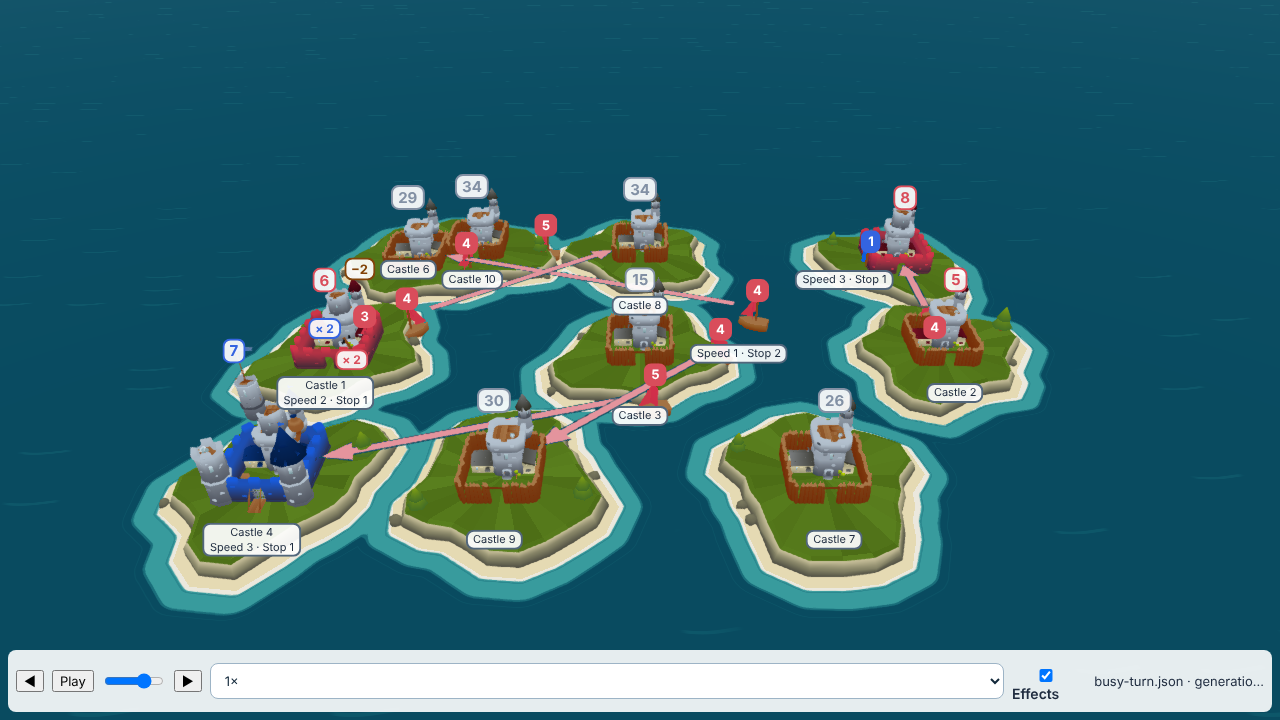
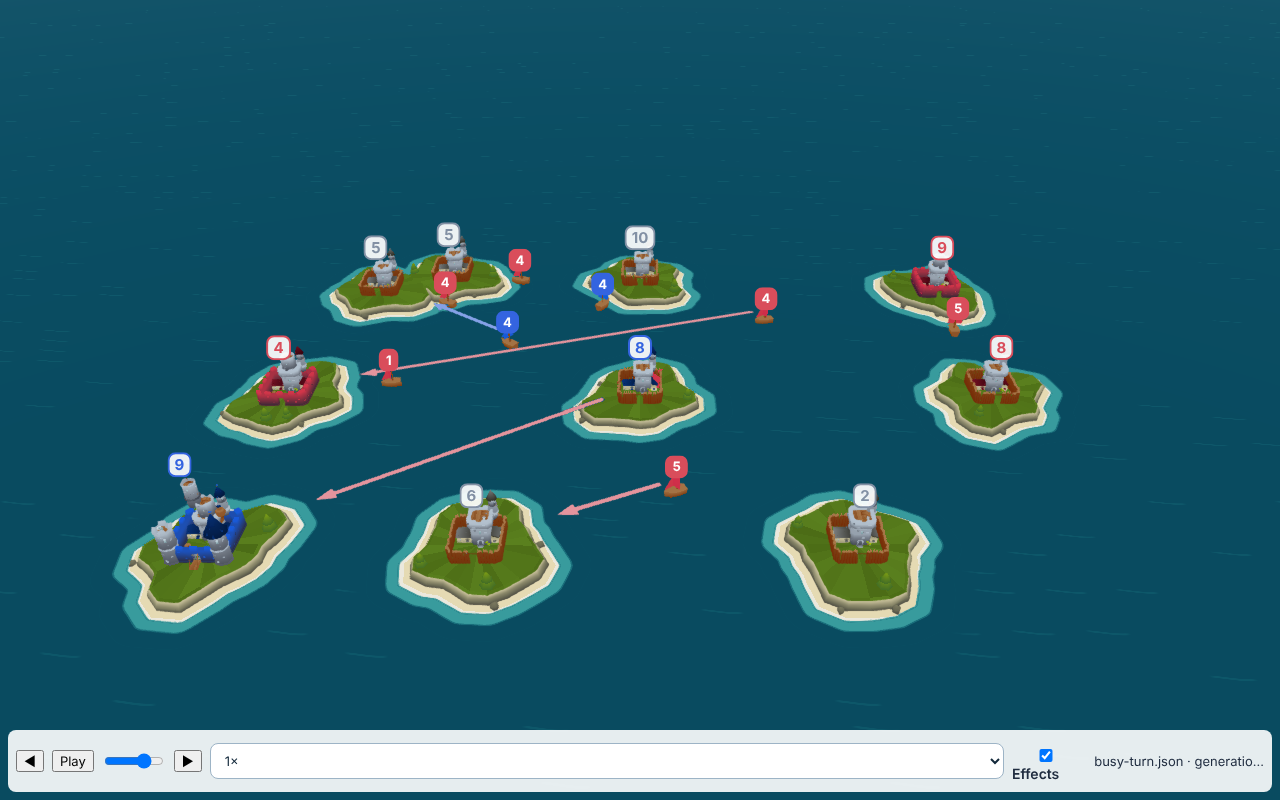
3D client: Effects off plays no particles (#201)
With the Effects setting on "low", burstsFor returns null: the particle
code is not loaded, no Bursts object or pool is built and no burst plays.
Effects ask again on every effect and every frame (tick), so switching to
"high" during a game builds the pool at once. Tests set the setting
explicitly. README and three screenshots updated.

Claude-Session: https://claude.ai/code/session_01R65BA79mRwtyxMCHeU29hg

Changed region(s): [[0.0625, 0.2444, 0.8438, 0.8556], [0.0, 0.8861, 1.0, 0.9778]]

diff --git a/clients/island-battles-web/src/scene/art.test.ts b/clients/island-battles-web/src/scene/art.test.ts
@@ -1,10 +1,19 @@
-import { afterAll, beforeAll, describe, expect, test } from "bun:test";
+import {
+  afterAll,
+  afterEach,
+  beforeAll,
+  beforeEach,
+  describe,
+  expect,
+  test,
+} from "bun:test";
 import { readFileSync } from "node:fs";
 import { NullEngine } from "@babylonjs/core/Engines/nullEngine";
 import { Color4 } from "@babylonjs/core/Maths/math.color";
 import { Vector3 } from "@babylonjs/core/Maths/math.vector";
 import { Scene } from "@babylonjs/core/scene";
 import { createTurnEffects } from "./animation/effects";
+import type { FlashPose } from "./animation/plan";
 import {
   BOAT_FLOAT,
   boatGeometry,
@@ -18,6 +27,7 @@ import {
   setBoatTeam,
 } from "./art";
 import { ATLAS_SWATCHES } from "./atlasUv";
+import type { Battlefield } from "./battlefield";
 import { CASTLE_ATLAS_URL } from "./castleAssets";
 import {
   ATLAS_SIZE,
@@ -26,8 +36,31 @@ import {
   teamAtlas,
 } from "./castleAtlas";
 import { islandProps } from "./landforms";
-import { Bursts } from "./particles";
+import { Bursts, burstsOf } from "./particles";
 import { decodePng } from "./testing/png";
+
+/** Sets the saved Effects choice for the test, whatever the machine; returns a way to restore. */
+function stubGraphics(initial: "high" | "low") {
+  const stored = new Map<string, string>([
+    ["island-battles-web.graphics", initial],
+  ]);
+  const original = Object.getOwnPropertyDescriptor(globalThis, "localStorage");
+  Object.defineProperty(globalThis, "localStorage", {
+    configurable: true,
+    value: {
+      getItem: (key: string) => stored.get(key) ?? null,
+      setItem: (key: string, value: string) => stored.set(key, value),
+    },
+  });
+  return {
+    set: (value: "high" | "low") =>
+      stored.set("island-battles-web.graphics", value),
+    restore: () => {
+      if (original) Object.defineProperty(globalThis, "localStorage", original);
+      else Reflect.deleteProperty(globalThis, "localStorage");
+    },
+  };
+}
 
 let engine: NullEngine;
 let scene: Scene;
@@ -110,6 +143,7 @@ describe("boats and props on the castle atlas (#102)", () => {
 
 describe("turn effects (#102)", () => {
   test("a sinking boat tilts, slides under and is put back when the turn is cleared", async () => {
+    const graphics = stubGraphics("high");
     const boat = createBoat(scene, 7, materials, 1);
     const effects = createTurnEffects(scene);
     // The particle code loads on its own.
@@ -130,6 +164,7 @@ describe("turn effects (#102)", () => {
     expect(boat.body.rotation.x).toBe(0);
     expect(boat.root.rotation.z).toBe(0);
     disposeBoat(boat);
+    graphics.restore();
   });
 
   test("a rattled boat rolls and shakes its body only, fades out, and is put back; with Effects off it stays still", () => {
@@ -173,6 +208,80 @@ describe("turn effects (#102)", () => {
       if (original) Object.defineProperty(globalThis, "localStorage", original);
       else Reflect.deleteProperty(globalThis, "localStorage");
     }
+  });
+});
+
+describe("Effects off plays no particles (#201)", () => {
+  let own: Scene;
+  let field: Battlefield;
+  let ownMaterials: MaterialCache;
+  beforeEach(() => {
+    own = new Scene(engine);
+    ownMaterials = new MaterialCache(own);
+    field = {
+      scene: own,
+      castles: new Map(),
+      generation: null,
+    } as unknown as Battlefield;
+  });
+  afterEach(() => own.dispose());
+
+  function playAll(effects: ReturnType<typeof createTurnEffects>, id: number) {
+    const boat = createBoat(own, 100 + id, ownMaterials, 1);
+    const flash = {
+      clashId: id,
+      groupId: 1,
+      teamColor: 1,
+      x: 0,
+      y: 0,
+      radius: 1,
+      age: 0.1,
+    } as FlashPose;
+    effects.clash(field, [flash]);
+    effects.sink(boat, 0.5);
+    effects.castleLevelUp(field, id, 1, 2);
+    effects.castleCaptured(field, id, 2);
+    effects.tick(0);
+    return boat;
+  }
+
+  test("with Effects off no particle system and no pool is made, and boats still sink", async () => {
+    const graphics = stubGraphics("low");
+    const before = own.particleSystems.length;
+    const effects = createTurnEffects(own);
+    await import("./particles");
+    await new Promise((resolve) => setTimeout(resolve, 0));
+    const boat = playAll(effects, 1);
+    expect(boat.body.position.y).toBeLessThan(BOAT_FLOAT);
+    expect(own.particleSystems.length).toBe(before);
+    expect(burstsOf(own)).toBeUndefined();
+    effects.clear();
+    disposeBoat(boat);
+    graphics.restore();
+  });
+
+  test("low to high builds the pool at the next frame; high to low starts no new burst", async () => {
+    const graphics = stubGraphics("low");
+    const before = own.particleSystems.length;
+    const effects = createTurnEffects(own);
+    await import("./particles");
+    await new Promise((resolve) => setTimeout(resolve, 0));
+    effects.tick(0);
+    expect(own.particleSystems.length).toBe(before);
+    graphics.set("high");
+    effects.tick(1);
+    expect(burstsOf(own)).not.toBeNull();
+    const pooled = own.particleSystems.length;
+    expect(pooled).toBeGreaterThan(before);
+    graphics.set("low");
+    const quiet = JSON.stringify(burstsOf(own)?.stats());
+    const boat = playAll(effects, 2);
+    // No burst leased a system, so the pool's busiest moments did not change.
+    expect(JSON.stringify(burstsOf(own)?.stats())).toBe(quiet);
+    expect(own.particleSystems.length).toBe(pooled);
+    effects.clear();
+    disposeBoat(boat);
+    graphics.restore();
   });
 });
 

diff --git a/clients/island-battles-web/src/scene/animation/effects.ts b/clients/island-battles-web/src/scene/animation/effects.ts
@@ -109,8 +109,13 @@ export function createTurnEffects(scene?: Scene): TurnEffects {
   let bursts: Bursts | null = null;
   let burstScene: Scene | null = null;
 
-  /** The scene's bursts, or null while the particle code loads. */
+  /**
+   * The scene's bursts, or null while the particle code loads and whenever Effects is off: with
+   * Effects off no particle code is loaded, no pool is built and no burst plays. Asked again on
+   * every effect and every frame (`tick`), so switching Effects on builds the pool at once.
+   */
   const burstsFor = (scene: Scene): Bursts | null => {
+    if (graphicsOf(scene) !== "high") return null;
     if (!particles) {
       void loadParticles();
       return null;
@@ -125,7 +130,7 @@ export function createTurnEffects(scene?: Scene): TurnEffects {
     return bursts;
   };
 
-  if (scene) {
+  if (scene && graphicsOf(scene) === "high") {
     loadParticles().then(
       () => {
         if (!scene.isDisposed) burstsFor(scene)?.warmUp();
@@ -334,7 +339,10 @@ export function createTurnEffects(scene?: Scene): TurnEffects {
       });
     },
 
-    tick() {},
+    tick() {
+      // Effects switched on during a game: the pool is built here, before the first burst.
+      if (scene && !scene.isDisposed) burstsFor(scene);
+    },
 
     clear() {
       // Bursts of smoke, spray and sparkle play out on their own, across the turn's end; only

diff --git a/clients/island-battles-web/README.md b/clients/island-battles-web/README.md
@@ -158,12 +158,12 @@ The board is restyled to belong with the castles ([#102](https://github.com/INTO
 - **Sea** (`sea.ts`, `seaDistance.ts`): a toon water shader. Deep water offshore, light shallows within `SHALLOWS_WIDTH` of the nearest island's waterline (a distance field sampled into a texture when the islands change), a toon edge where they meet, a foam line at the shore that breathes, gentle swells that move the band edges, a ripple drifting out and sparse wave dashes, and a faint sky reflection toward the horizon. The low graphics setting draws only the bands and foam.
 - **Boats** (`createBoat`): a low-poly wooden hull (`castle-base`), a square sail and a jib in the team's colour (the top of its stone/team swatch, as roofs) and a pennant on the flags swatch. They still grow gently with soldiers. A moving boat leaves a small foam wake (`wakes.ts`), faded in by its speed.
 - **Light** (`look.ts`, `lookConstants.ts`): a warm sun, soft shadows (1024 map with percentage-closer filtering) from castles, boats and props onto islands, and a cool hemispheric fill. The environment texture `assets/environment/sky.png` is a small equirectangular sky made by `tools/environment/sky.ts`; the sea reflects it. It loads from the page's own origin like the castle files. The board's materials are Babylon's standard materials (no PBR, as #140 chose), so it is not used as image-based light.
-- **Graphics setting** (`graphics.ts`, `postFx.ts`, `shadows.ts`): "high" turns on a `DefaultRenderingPipeline` (Khronos PBR Neutral tone mapping, which keeps colours' hue, a light bloom and FXAA), the sun's shadows, the sea's details and the castles' loops (`setCastleAnimation`); "low" turns all of them off. The game view's **Effects** box switches it and remembers it in `localStorage`; a device with two cores or 2 GB of memory or less starts on "low". The pipeline and the shadow code are chunks of their own, fetched only when turned on. Labels are drawn after post-processing, so it never touches their text or colours.
+- **Graphics setting** (`graphics.ts`, `postFx.ts`, `shadows.ts`): "high" turns on a `DefaultRenderingPipeline` (Khronos PBR Neutral tone mapping, which keeps colours' hue, a light bloom and FXAA), the sun's shadows, the sea's details and the castles' loops (`setCastleAnimation`); "low" turns all of them off and also plays no particle bursts (see **Effects** below). The game view's **Effects** box switches it and remembers it in `localStorage`; a device with two cores or 2 GB of memory or less starts on "low". The pipeline and the shadow code are chunks of their own, fetched only when turned on. Labels are drawn after post-processing, so it never touches their text or colours.
 - **Effects** (`animation/effects.ts`, `particles.ts`, `particlePool.ts`, `gpuParticles.ts`): short particle bursts with textures drawn in code; GPU particles where WebGL 2 runs them, CPU particles elsewhere. Seeking puts every posed boat and castle back at once; bursts already under way finish on their own across a turn's end.
   - **Pooled systems** (#197). Building a particle system in the middle of a frame costs 30 to 48 ms (headless), so none is built while a turn plays. When the board loads, `Bursts.warmUp()` builds every system once and plays an invisible particle on each until it has compiled and drawn a few frames; a burst then takes a free system of its kind, sets its position, colours, sizes, speeds and rate (plain fields: a `GPUParticleSystem` sends them to its shader every frame, so nothing recompiles), calls `start()`, and gives it back once the last particle has died (`SystemPool` in `particlePool.ts`, which knows nothing about Babylon and is tested with a fake system). An idle system is stopped with `emitter = null`, which the scene's frame loop skips. GPU systems are made with `emitRateControl`, so a system that is started again emits what its rate says and does not refill itself with the particles of its last use (no `reset()`, which would free and rebuild its buffers).
   - **Kinds.** What a running system cannot change makes a kind: the emitter's shape (a point, or a box when the burst has a `spread`), the blend mode, the texture, the size curve (`grow`) and the capacity. `BURST_KINDS` in `particles.ts` lists the six the game uses, with their pool sizes: the clash's flash (8 systems), smoke (10), the spray together with the bubbles under a sinking boat (16), the level-up sparkle (6), a capture's burst (4) and its sparks (4). A burst whose kind is not in the table is dropped, so a new effect adds a row there (a test checks that the turn's effects find a system for each of theirs).
   - **Pool sizes** are about twice the most that were busy at once in the three fixtures played at 1.5 s a turn (`window.battlefieldDebug.particlePool()` gives the counters: `highWater` per kind, and `dropped`): flash 4, smoke 6, spray and bubbles 9, sparkle 3, capture 1, capture sparks 1 on `six-teams.json`. When more bursts start at once than a kind holds, the extra ones are dropped and the ones playing carry on; nothing is built to make room.
-  - The Effects setting does not switch these off: the bursts played with "low" before #197 and still do, so the pool is built in both settings.
+  - **Effects off plays no particles** (#201). With "low", `burstsFor` in `effects.ts` returns `null`: the particle code is not loaded, no `Bursts` object and no pool (the 48 systems) are made, and no burst plays. Boats still tilt and sink, and the clash flash and the castle pop still play. The effects ask `burstsFor` on every effect and every frame (`tick`), so switching to "high" during a game builds and warms the pool at once and bursts play from the next effect; switching to "low" lets bursts that are playing finish, starts no new one and leaves the pool in memory until the scene is disposed.
 - **Loading** (`assetLoader.ts`, `boardAssets.ts`, `src/ui/boardLoading.ts`): the atlas, the four castle models and the environment texture download once per page, counted by bytes. The game view and the dev page show **Loading the board…** with a progress bar over the board until they are in; the board draws its stand-ins underneath, and stays usable if a file fails. The lobby screens do not wait: the ocean behind them fades in once the art has loaded.
 
 **Contrast.** The owner decided on #102 to keep the issue's shades so the board matches the reference video: deep sea `#1f4f63` (`DEEP_SEA_COLOR`), shallows `#4fa3a5` (`SHALLOWS_COLOR`), foam `#f4f1e6` and the castle atlas's own green for the grass top (`GRASS_TINT` is [1, 1, 1]), and to drop the 3:1 minimum. The team colours are all mid-tones, so every pair of a team's roof (the top of its stone/team swatch, `teamSwatches`) or boat sail with these backgrounds comes out at 1.0 to 2.4:1. `contrast.test.ts` computes the table (run it with `CONTRAST_TABLE=1 bun test src/scene/contrast.test.ts` to print it) but enforces nothing. Team identity comes from the team-coloured label chips and heading lines. The palette stays equal to `replay.html`.
